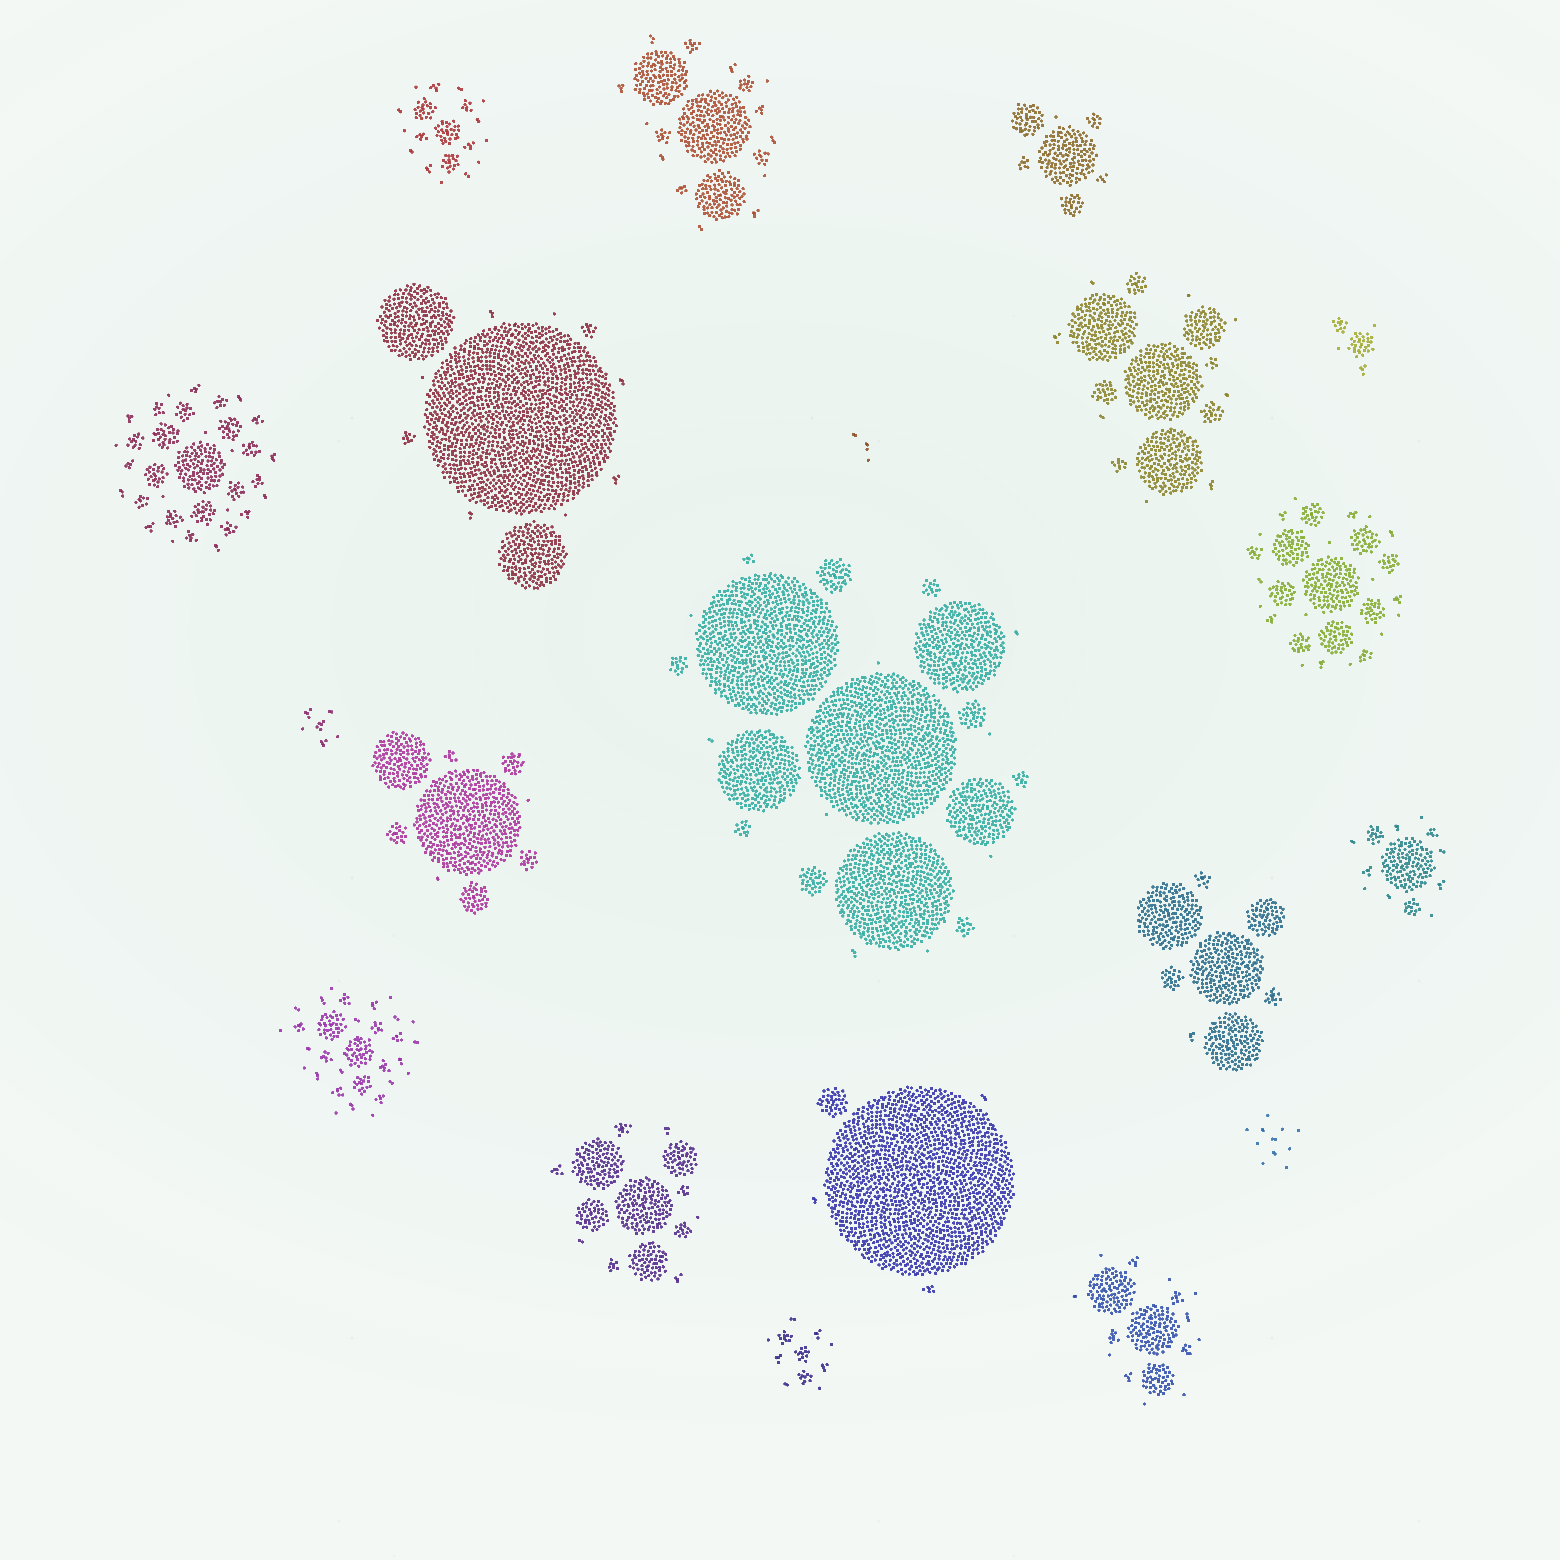
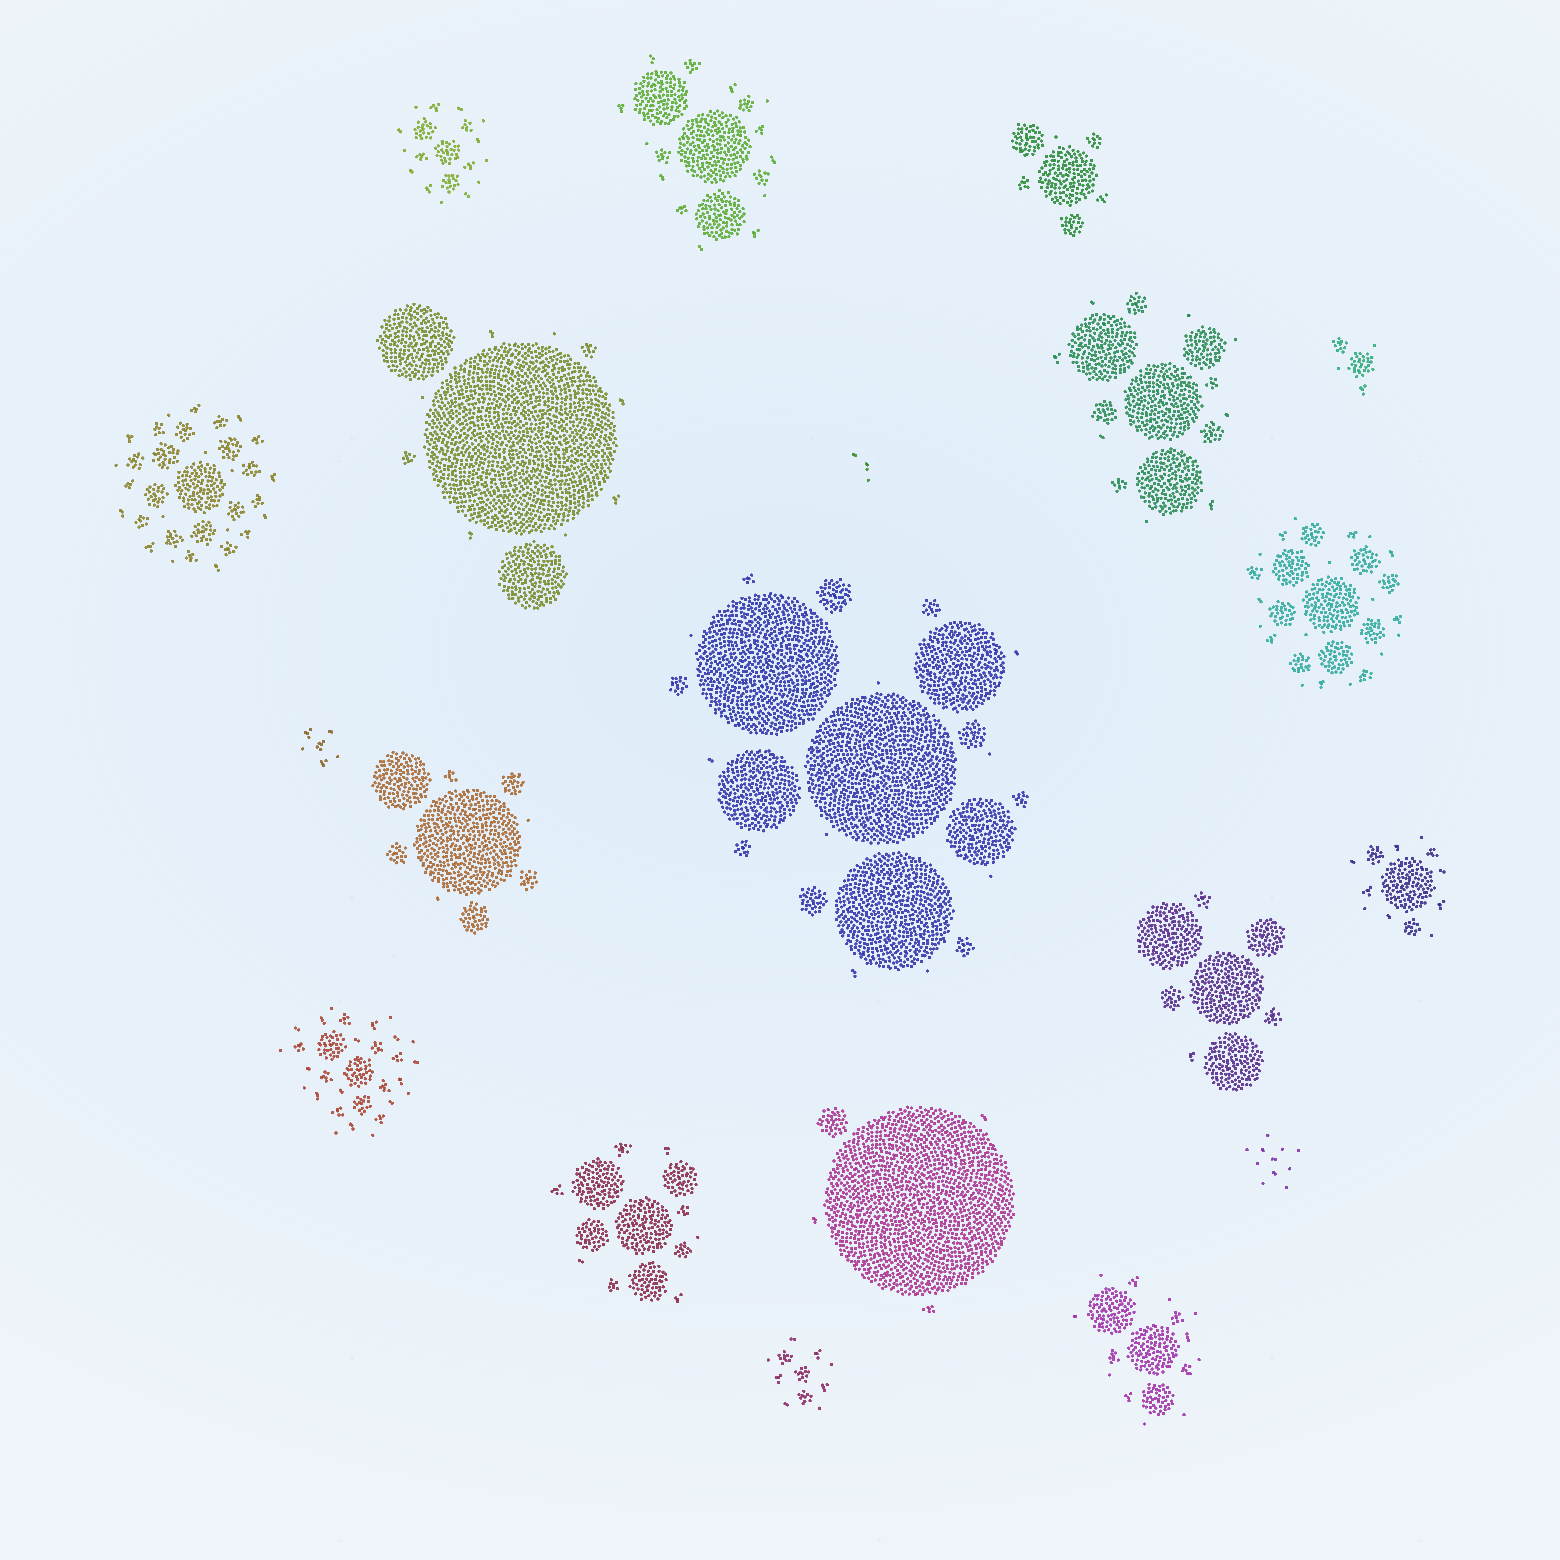
HACK-029: capturas del atlas en azul, titular en dos líneas y vidrio sin capas CSS

diff --git a/web/src/features/landing/style.css b/web/src/features/landing/style.css
@@ -1,8 +1,9 @@
+/* Sin @layer: así gana a preflight sin depender del orden del bundle; las clases no fijan position
+   para que las utilidades (md:absolute) sigan mandando. */
 /* HACK-029 · Landing: vidrio estilo Apple (aproximación web con backdrop-filter; Apple no publica
    un CSS oficial de Liquid Glass). Paleta cerrada del humano: #EEF4F9→#DCE9F3, #1E6FD9, #0B2A4A,
    #8EC5FC, #5ED3D0, #5B7189. Una sola curva y sólo transform/opacity animados. */
 
-@layer components {
 .lp {
   --lp-ease: cubic-bezier(0.22, 1, 0.36, 1);
   --lp-blue: #1e6fd9;
@@ -27,7 +28,6 @@
 }
 
 .lp-glass {
-  position: relative;
   border: 1px solid rgb(255 255 255 / 70%);
   border-radius: 28px;
   background: rgb(255 255 255 / 55%);
@@ -37,7 +37,6 @@
 }
 
 .lp-navy {
-  position: relative;
   border-radius: 28px;
   background: var(--lp-navy);
   color: #fff;
@@ -47,6 +46,7 @@
 /* Hover de tarjeta: sube 5 px; la sombra más profunda y el brillo extra son capas que sólo cambian
    de opacidad (sin animar box-shadow ni filter). */
 .lp-card {
+  position: relative;
   isolation: isolate;
   transition: transform 500ms var(--lp-ease);
 }
@@ -177,5 +177,4 @@
     background: var(--lp-navy);
     backdrop-filter: none;
   }
-}
 }

diff --git a/web/src/features/landing/index.tsx b/web/src/features/landing/index.tsx
@@ -145,7 +145,7 @@ export default function Landing() {
           </motion.div>
           <motion.h1
             {...enter(1)}
-            className="max-w-[17ch] text-[2.75rem] font-semibold leading-[1.04] tracking-[-0.035em] sm:text-[3.5rem] lg:text-[4.75rem]"
+            className="max-w-[24ch] text-balance text-[2.75rem] font-semibold leading-[1.04] tracking-[-0.035em] sm:text-[3.5rem] lg:text-[4.75rem]"
           >
             From scattered symptoms to the people who can help.
           </motion.h1>
